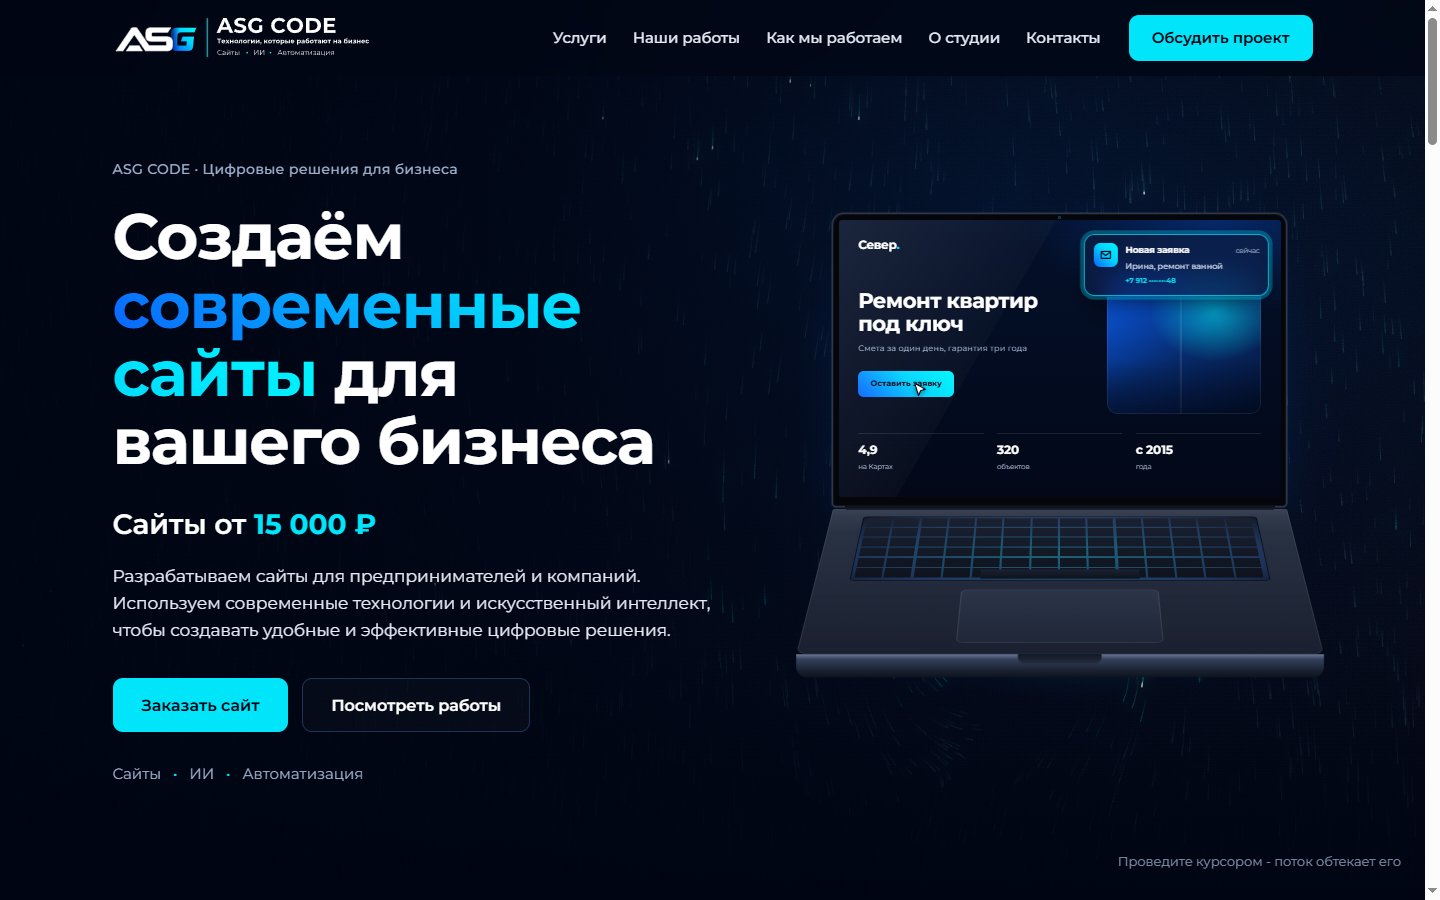
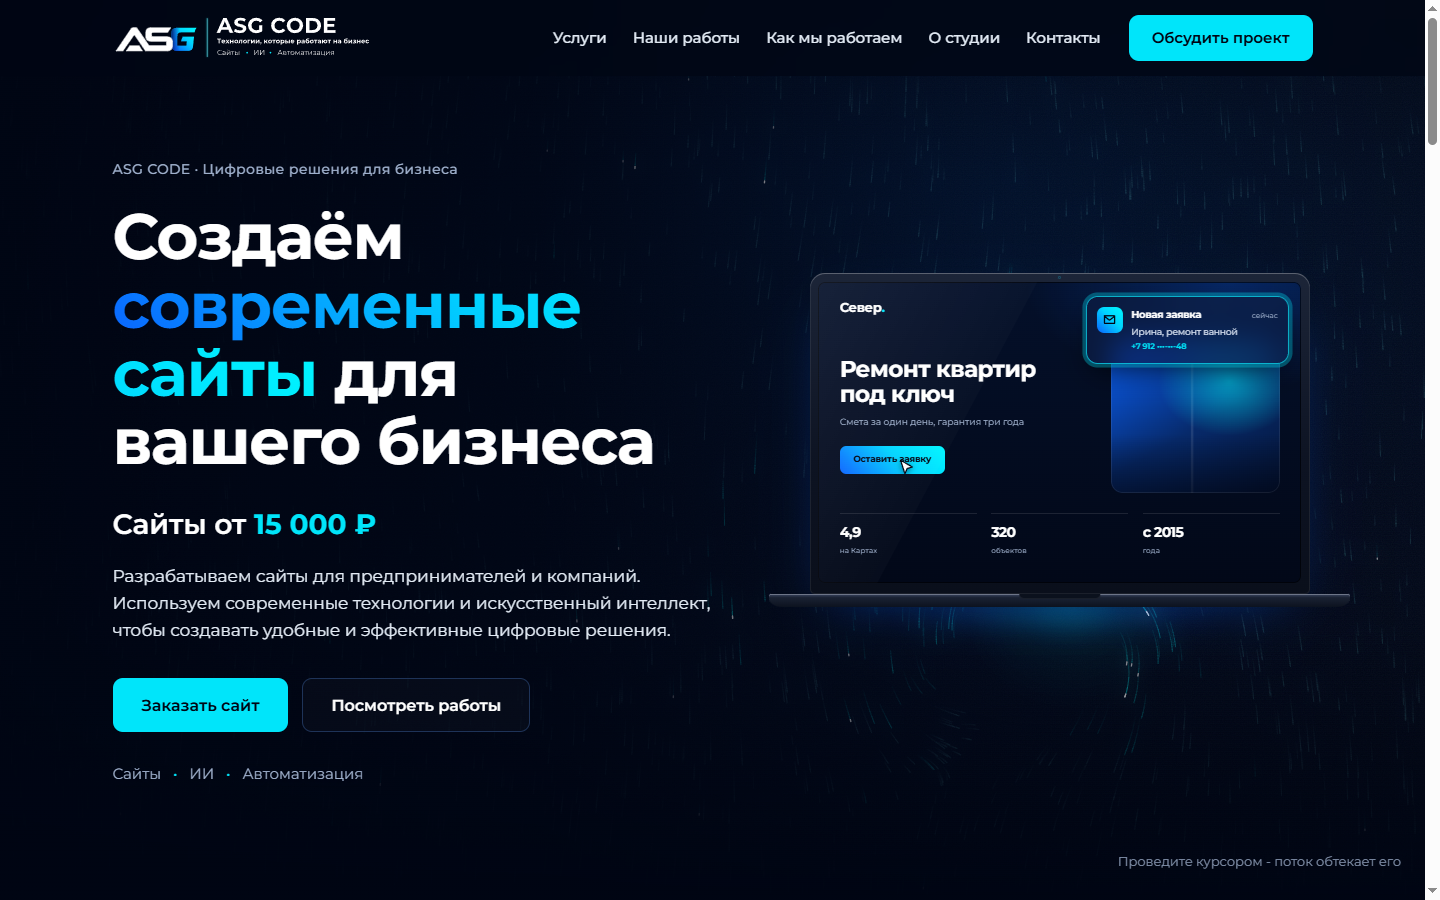
V2: вернуть плоский ноутбук вместо 3D-версии
Сцена «заявка пришла» с курсором, уведомлением и ответом ИИ сохранена.

Changed region(s): [[0.5312, 0.2178, 0.9375, 0.7467]]

diff --git a/css/hero-laptop.css b/css/hero-laptop.css
@@ -4,114 +4,52 @@
 
 .v2 .hero__visual--laptop { padding: 8px 0 72px; overflow: visible; }
 
-/* ---------- Ноутбук ----------
-   Крышка с тонкой рамкой стоит прямо, нижняя часть (клавиатура и тачпад) уходит к зрителю
-   в настоящей 3D-перспективе: камера чуть выше ноутбука, как на предметной съёмке. */
-.laptop { position: relative; container-type: inline-size; padding-bottom: 2cqw; }
-
-/* Отражение и свет на «столе» */
-.laptop::after {
-  content: ''; position: absolute; left: 4%; right: 4%; bottom: -3cqw; height: 12cqw;
-  background:
-    radial-gradient(50% 45% at 50% 40%, rgba(0, 212, 255, .32), rgba(10, 99, 255, .12) 55%, transparent 75%);
-  filter: blur(16px); z-index: -1; pointer-events: none;
+/* ---------- Ноутбук ---------- */
+.laptop { position: relative; container-type: inline-size; }
+.laptop::after { /* свет под ноутбуком */
+  content: ''; position: absolute; left: 12%; right: 12%; bottom: -5cqw; height: 9cqw;
+  background: radial-gradient(50% 50% at 50% 50%, rgba(0, 212, 255, .35), rgba(10, 99, 255, .12) 55%, transparent 75%);
+  filter: blur(14px); z-index: -1; pointer-events: none;
 }
 
 .laptop__lid {
-  position: relative; width: 78%; margin: 0 auto;
-  padding: 1.1cqw 1cqw 1.6cqw;
-  border-radius: 1.9cqw 1.9cqw .5cqw .5cqw;
-  background: #04060B;
+  position: relative; width: 86%; margin: 0 auto;
+  padding: 1.5cqw 1.5cqw 1.9cqw;
+  border-radius: 2.6cqw 2.6cqw .8cqw .8cqw;
+  background: linear-gradient(180deg, #1C2538 0%, #0D1322 60%, #0A0F1B 100%);
   box-shadow:
-    0 0 0 .22cqw #2E374A,
-    0 0 0 .3cqw rgba(255, 255, 255, .08),
-    inset 0 0 0 1px rgba(255, 255, 255, .05),
-    0 6cqw 10cqw -6cqw rgba(10, 99, 255, .6);
+    inset 0 0 0 1px rgba(255, 255, 255, .07),
+    inset 0 1px 0 rgba(255, 255, 255, .22),
+    0 4cqw 9cqw -4cqw rgba(10, 99, 255, .55),
+    0 2cqw 4cqw -2cqw rgba(0, 0, 0, .7);
 }
 .laptop__cam {
-  position: absolute; top: .38cqw; left: 50%; width: .42cqw; height: .42cqw; margin-left: -.21cqw;
-  border-radius: 50%; background: #121A2A; box-shadow: inset 0 0 0 1px rgba(0, 229, 250, .2);
+  position: absolute; top: .55cqw; left: 50%; width: .5cqw; height: .5cqw; margin-left: -.25cqw;
+  border-radius: 50%; background: #1E2A40; box-shadow: inset 0 0 0 1px rgba(0, 229, 250, .18);
 }
 .laptop__screen {
   position: relative; aspect-ratio: 16 / 10; overflow: hidden;
-  border-radius: .5cqw;
+  border-radius: 1.2cqw;
   container-type: inline-size;
   background:
-    radial-gradient(70% 60% at 85% 0%, rgba(10, 99, 255, .3), transparent 60%),
+    radial-gradient(70% 60% at 85% 0%, rgba(10, 99, 255, .28), transparent 60%),
     linear-gradient(180deg, #04102A 0%, #020818 100%);
+  box-shadow: inset 0 0 0 1px rgba(0, 0, 0, .6);
 }
 .laptop__glare {
   position: absolute; inset: 0; pointer-events: none;
-  background: linear-gradient(120deg, rgba(255, 255, 255, .09) 0%, rgba(255, 255, 255, .025) 36%, transparent 36.2%);
+  background: linear-gradient(118deg, rgba(255, 255, 255, .075) 0%, rgba(255, 255, 255, .02) 34%, transparent 34.2%);
 }
-
-/* Петля */
-.laptop__hinge {
-  position: relative; z-index: 2; width: 74%; height: .7cqw; margin: 0 auto;
-  border-radius: 0 0 .4cqw .4cqw;
-  background: linear-gradient(180deg, #0A0E17 0%, #1B2232 100%);
+.laptop__base {
+  position: relative; height: 2.1cqw;
+  border-radius: .3cqw .3cqw 2.2cqw 2.2cqw / .3cqw .3cqw 1.6cqw 1.6cqw;
+  background: linear-gradient(180deg, #3A4560 0%, #1A2233 28%, #0C121F 100%);
+  box-shadow: inset 0 1px 0 rgba(255, 255, 255, .28), 0 1.6cqw 3cqw -1.2cqw rgba(0, 0, 0, .9);
 }
-
-/* Нижняя часть в перспективе */
-.laptop__deck-wrap {
-  position: relative; height: 22cqw; margin-top: -.2cqw;
-  perspective: 300cqw; perspective-origin: 50% -20cqw;
-}
-.laptop__deck {
-  position: relative; width: 78%; height: 46cqw; margin: 0 auto;
-  transform-origin: 50% 0; transform: rotateX(66deg);
-  transform-style: preserve-3d;
-  border-radius: .4cqw .4cqw 1.6cqw 1.6cqw;
-  background:
-    linear-gradient(180deg, rgba(255, 255, 255, .06) 0%, transparent 18%),
-    linear-gradient(180deg, #2C3547 0%, #222A3B 55%, #1A2030 100%);
-  box-shadow: inset 0 0 0 1px rgba(255, 255, 255, .07);
-}
-/* Клавиатура: тёмные клавиши над голубой подсветкой */
-.laptop__kbd {
-  position: absolute; top: 6%; left: 7%; right: 7%; height: 47%;
-  border-radius: .8cqw;
-  background: radial-gradient(80% 90% at 50% 60%, rgba(0, 229, 250, .32), rgba(10, 99, 255, .16) 60%, rgba(4, 8, 16, .9) 100%);
-  box-shadow: inset 0 0 0 1px rgba(0, 0, 0, .6);
-}
-.laptop__kbd::before { /* клавиши: пересечение рядов и колонок */
-  content: ''; position: absolute; inset: .7cqw;
-  background: linear-gradient(180deg, #1A2131, #0E131D);
-  -webkit-mask:
-    repeating-linear-gradient(90deg, #000 0 6.6%, transparent 6.6% 7.1428%),
-    repeating-linear-gradient(180deg, #000 0 14.6%, transparent 14.6% 16.6667%);
-  -webkit-mask-composite: source-in;
-  mask:
-    repeating-linear-gradient(90deg, #000 0 6.6%, transparent 6.6% 7.1428%),
-    repeating-linear-gradient(180deg, #000 0 14.6%, transparent 14.6% 16.6667%);
-  mask-composite: intersect;
-}
-.laptop__kbd::after { /* пробел */
-  content: ''; position: absolute; left: 31%; width: 38%; bottom: .7cqw; height: calc((100% - 1.4cqw) * .146);
-  background: linear-gradient(180deg, #1A2131, #0E131D);
-}
-/* Тачпад - реагирует на «клик» в сценарии */
-.laptop__pad {
-  position: absolute; left: 50%; bottom: 7%; width: 40%; height: 34%;
-  transform: translateX(-50%); border-radius: 1.2cqw;
-  background: linear-gradient(180deg, #2C3549 0%, #1F2738 100%);
-  box-shadow: inset 0 0 0 1px rgba(255, 255, 255, .09);
-  transition: box-shadow .35s ease, background .35s ease;
-}
-.laptop__pad.is-click {
-  background: linear-gradient(180deg, #2F3F5A 0%, #213049 100%);
-  box-shadow: inset 0 0 0 1px rgba(0, 229, 250, .7), 0 0 3cqw rgba(0, 229, 250, .5);
-}
-/* Передний торец: стоит вертикально к зрителю */
-.laptop__front {
-  position: absolute; left: 0; right: 0; top: 100%; height: 3.4cqw;
-  transform-origin: 50% 0; transform: rotateX(-66deg);
-  border-radius: 0 0 1.6cqw 1.6cqw;
-  background: linear-gradient(180deg, #6A7895 0%, #34405A 22%, #1A2131 70%, #0E131D 100%);
-}
-.laptop__front::after { /* выемка под палец */
-  content: ''; position: absolute; top: 0; left: 50%; width: 16%; height: 40%; transform: translateX(-50%);
-  border-radius: 0 0 1cqw 1cqw; background: linear-gradient(180deg, #121826, #232C3E);
+.laptop__notch {
+  position: absolute; top: 0; left: 50%; width: 14%; height: .75cqw; transform: translateX(-50%);
+  border-radius: 0 0 .9cqw .9cqw; background: #0B111D;
+  box-shadow: inset 0 -1px 0 rgba(255, 255, 255, .06);
 }
 
 /* ---------- Сайт клиента на экране ---------- */

diff --git a/js/hero-v2.js b/js/hero-v2.js
@@ -13,7 +13,6 @@
   var screen = visual.querySelector('.laptop__screen');
   var btn = visual.querySelector('.lsite__btn');
   var cursor = visual.querySelector('.lcursor');
-  var pad = visual.querySelector('.laptop__pad');
   var toast = visual.querySelector('.ltoast');
   var reply = visual.querySelector('.aireply');
   var status = reply && reply.querySelector('.aireply__status');
@@ -86,8 +85,8 @@
     reset();
     later(function () { cursor.classList.add('is-on'); }, 300);
     later(cursorToButton, 450);
-    later(function () { cursor.classList.add('is-click'); btn.classList.add('is-pressed'); if (pad) pad.classList.add('is-click'); }, 1500);
-    later(function () { cursor.classList.remove('is-click'); btn.classList.remove('is-pressed'); if (pad) pad.classList.remove('is-click'); }, 1720);
+    later(function () { cursor.classList.add('is-click'); btn.classList.add('is-pressed'); }, 1500);
+    later(function () { cursor.classList.remove('is-click'); btn.classList.remove('is-pressed'); }, 1720);
     later(function () { toast.classList.add('is-in'); }, 1900);
     later(function () { cursor.classList.remove('is-on'); }, 2900);
     later(function () { reply.classList.add('is-in'); }, 3100);

diff --git a/v2.html b/v2.html
@@ -123,14 +123,7 @@
             </div>
             <span class="laptop__cam"></span>
           </div>
-          <div class="laptop__hinge"></div>
-          <div class="laptop__deck-wrap">
-            <div class="laptop__deck">
-              <div class="laptop__kbd"></div>
-              <div class="laptop__pad"></div>
-              <div class="laptop__front"></div>
-            </div>
-          </div>
+          <div class="laptop__base"><span class="laptop__notch"></span></div>
         </div>
 
         <div class="aireply">
